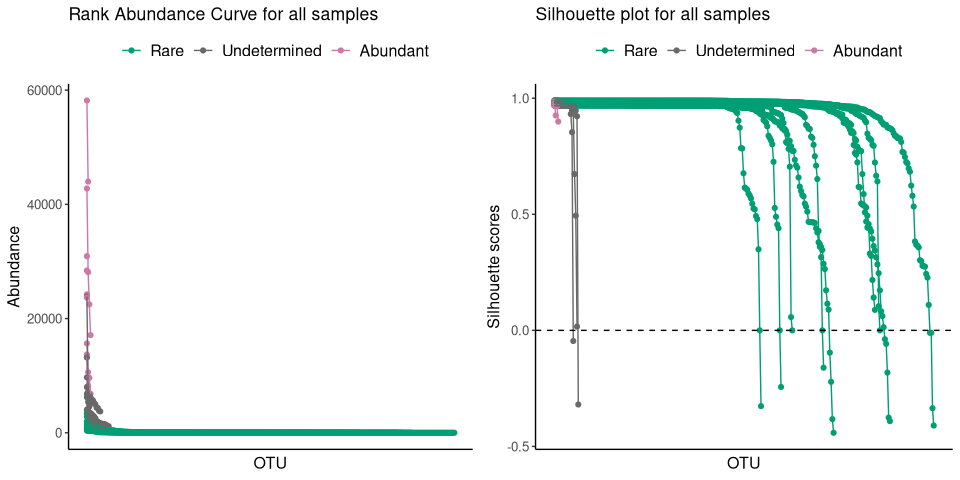
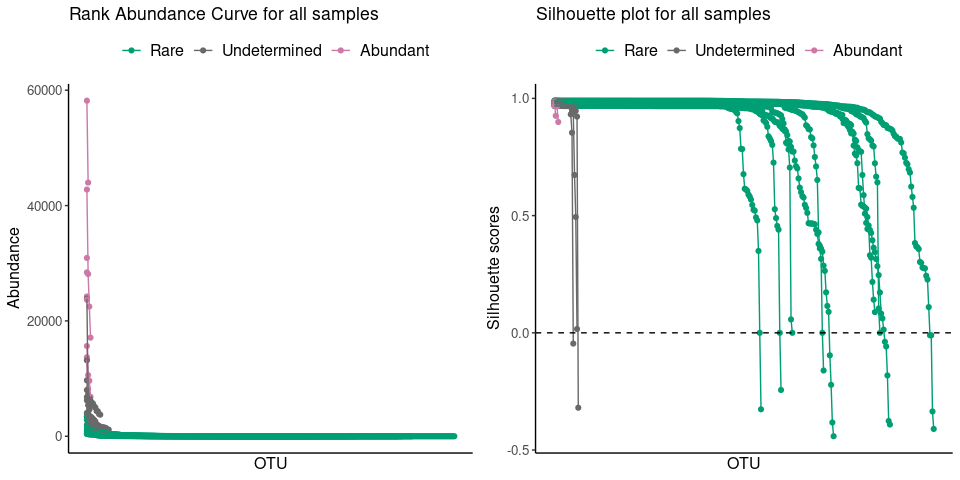
Update documentation for package update 0.1.9

diff --git a/README.md b/README.md
@@ -16,8 +16,6 @@ stable](https://img.shields.io/badge/lifecycle-stable-brightgreen.svg)](https://
 [![Downloads](https://cranlogs.r-pkg.org/badges/grand-total/ulrb)](https://cran.r-project.org/package=ulrb)
 <!-- badges: end -->
 
-**Note:** Developer version 0.1.9 (unstable).
-
 The R package **ulrb** stands for **Unsupervised Learning Based
 Definition of Microbial Rare Biosphere**. As the name suggests, it
 applies unsupervised learning principles to define the rare biosphere.
@@ -41,7 +39,7 @@ website: <https://pascoalf.github.io/ulrb/>.
 
 ## Installation
 
-To install the last stable version (0.1.8), use:
+To install the latest stable version (0.1.9), use:
 
 ``` r
 install.packages("ulrb")
@@ -51,11 +49,7 @@ If you want to install from GitHub, use:
 
 ``` r
 # install.packages("devtools")
-# current version, 0.1.8
 devtools::install_github("pascoalf/ulrb")
-
-# developer version, 0.1.9 (unstable)
-devtools::install_github("pascoalf/ulrb@issue_4")
 ```
 
 ## Example
@@ -122,9 +116,6 @@ head(nice)
 #> 4                           <NA>                                           <NA>
 #> 5                           <NA>                                           <NA>
 #> 6 g__Candidatus_Nitrosopelagicus                                           <NA>
-```
-
-``` r
 
 # first, we tidy the "nice" OTU table
 sample_names <- c("ERR2044662", "ERR2044663", "ERR2044664",
@@ -139,24 +130,23 @@ nice_tidy <- prepare_tidy_data(nice,
 # second, we apply ulrb algorithm in automatic setting
 nice_classification_results <- define_rb(nice_tidy)
 #> Joining with `by = join_by(Sample, Level)`
-```
-
-``` r
 
 # third, we plot microbial community and the quality of k-medoids clustering
 plot_ulrb(nice_classification_results, taxa_col = "OTU", plot_all = TRUE)
 ```
 
-<img src="man/figures/README-unnamed-chunk-4-1.png" width="100%" />
+<img src="man/figures/README-unnamed-chunk-4-1.png" alt="" width="100%" />
 
 ``` r
 
 # In case you want to inspect the result of a particular sample, do:
 plot_ulrb(nice_classification_results, taxa_col = "OTU", 
           sample_id = "ERR2044662", plot_all = FALSE, log_scaled = TRUE)
+#> Ignoring unknown labels:
+#> • fill : ""
 ```
 
-<img src="man/figures/README-unnamed-chunk-4-2.png" width="100%" />
+<img src="man/figures/README-unnamed-chunk-4-2.png" alt="" width="100%" />
 
 ## How to cite ulrb
 
